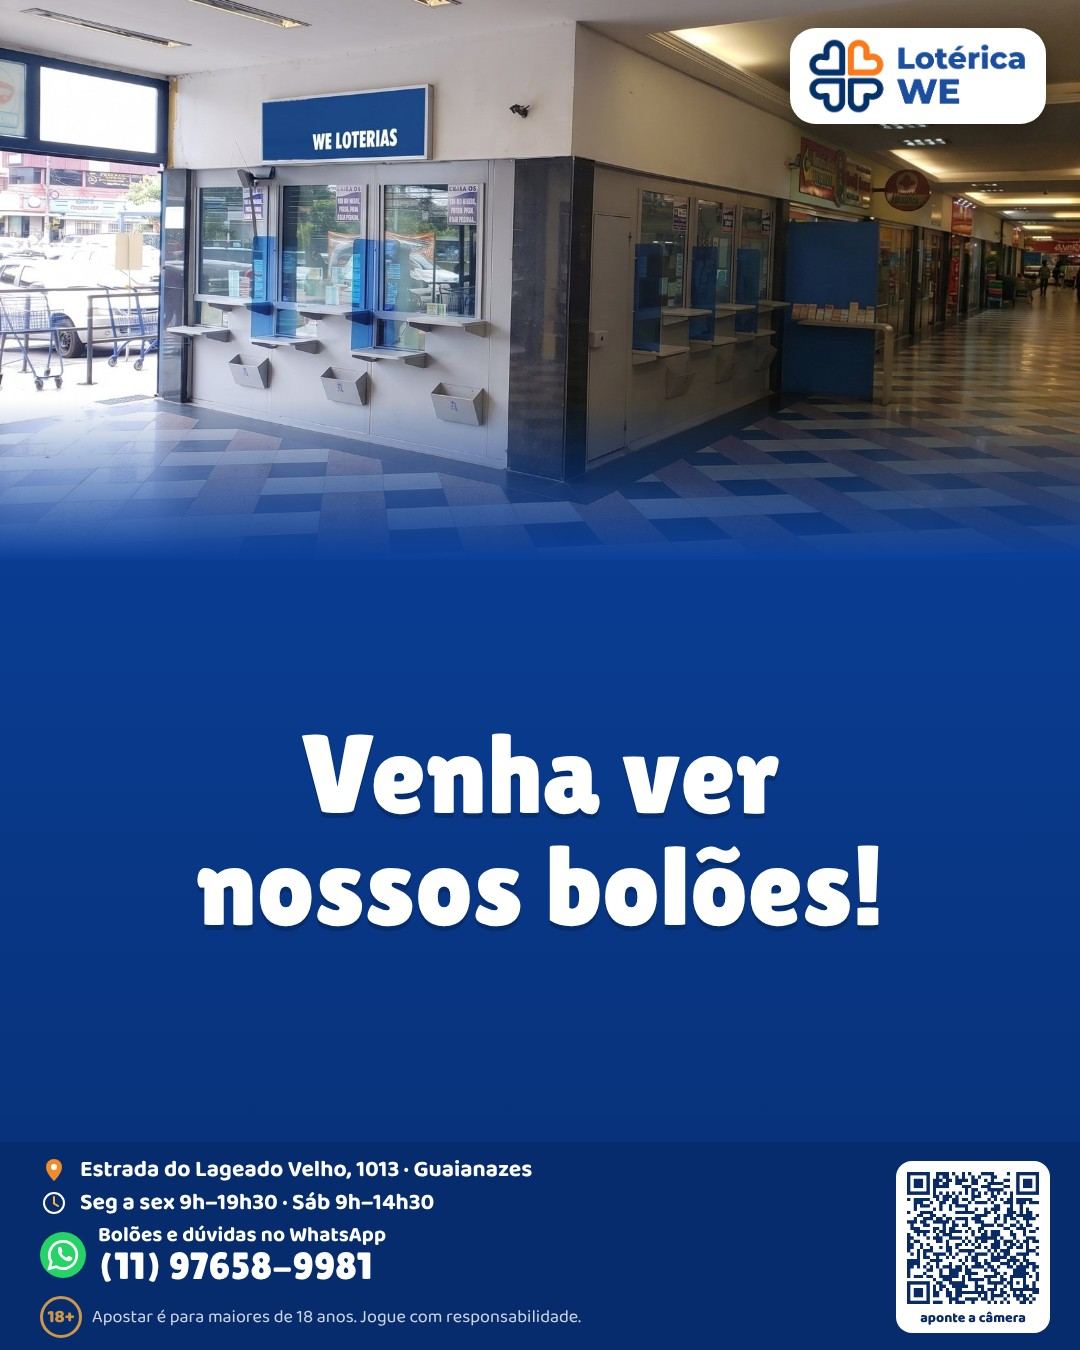
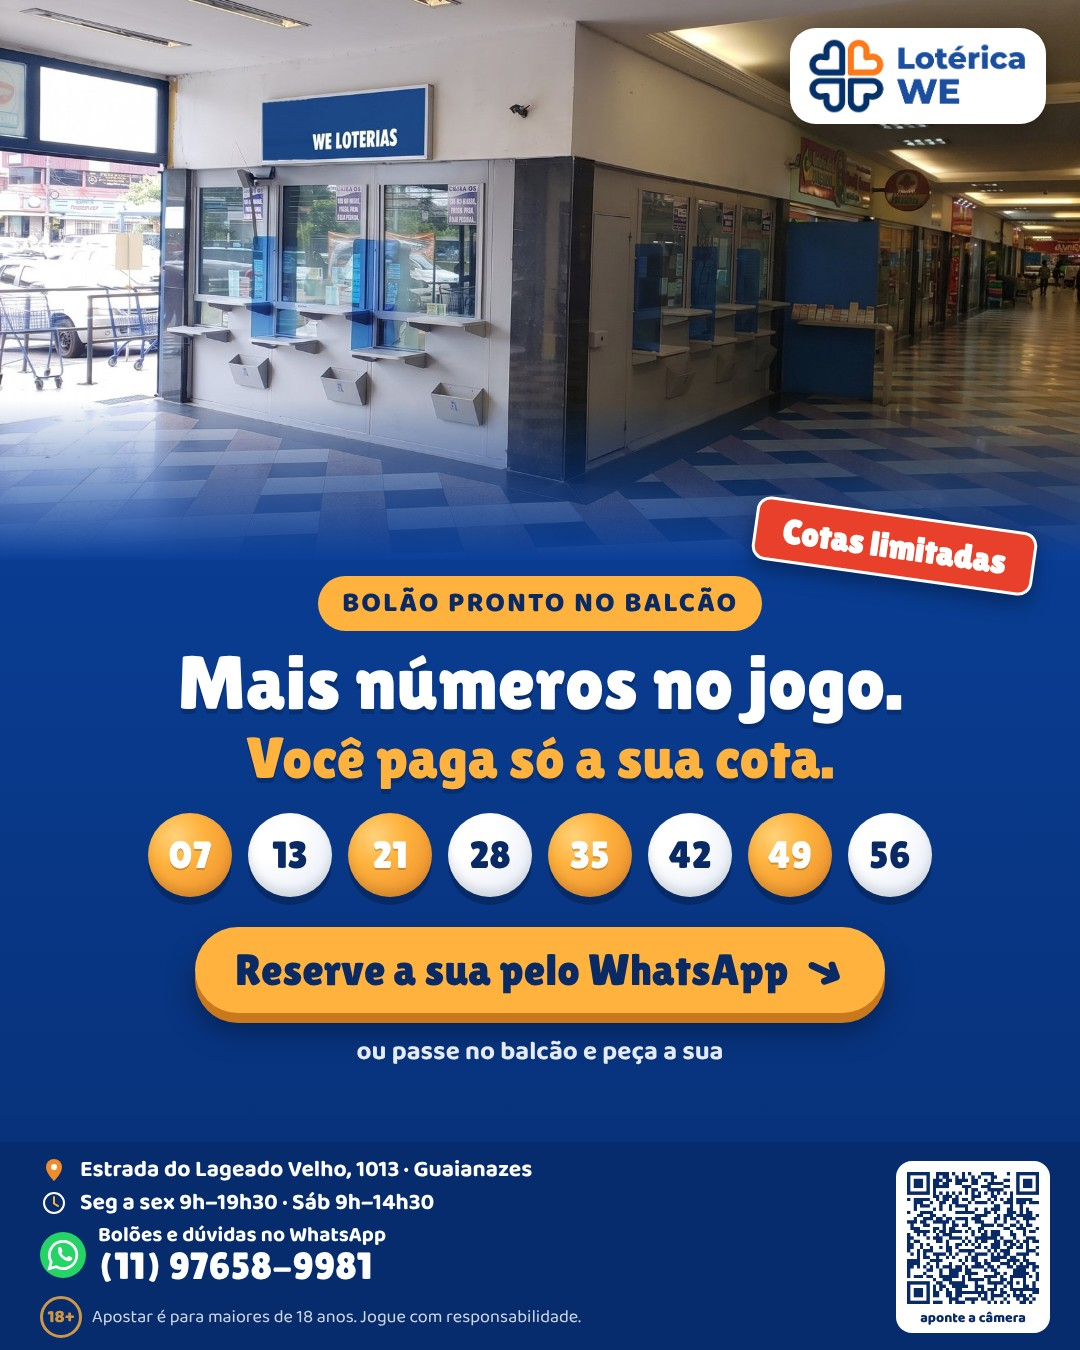
Peça de bolões: chamada, selo de cotas limitadas e botão de WhatsApp
Claude-Session: https://claude.ai/code/session_01Bxe7GpT3JXbyMSz1b7a84R

Changed region(s): [[0.1222, 0.3422, 0.9778, 0.8089]]

diff --git a/pecas-card/bolao_praca-xi.html b/pecas-card/bolao_praca-xi.html
@@ -32,9 +32,28 @@ body{padding:0;align-items:stretch;width:1080px;height:1350px}
 .slot{flex:1;margin:-30px 30px 20px;position:relative;z-index:1;border:4px dashed rgba(255,255,255,.7);border-radius:24px;display:flex;flex-direction:column;align-items:center;justify-content:center;gap:12px;background:rgba(10,42,102,.85)}
 .slot b{font-family:L;font-size:50px}.slot span{font-size:25px;font-weight:700;opacity:.9;text-align:center;padding:0 40px}
 .cta{font-family:L;color:#FFB23E;font-size:46px;margin-top:12px}
+
+.mk{gap:0}
+.mk .tag{position:absolute;top:-6px;right:44px;transform:rotate(8deg);background:#E8402A;color:#fff;font-family:L;font-size:34px;padding:10px 26px;border-radius:14px;box-shadow:0 8px 20px rgba(0,0,0,.35);border:3px solid #fff;z-index:3}
+.mk .kick{font-size:28px}
+.mk .h{font-size:76px;line-height:1.0;margin-top:14px}
+.mk .h span{color:#FFB23E;font-size:58px;display:block;margin-top:8px}
+.bolas{display:flex;gap:16px;margin-top:26px}
+.bolas i{font-style:normal;width:84px;height:84px;border-radius:50%;background:radial-gradient(circle at 32% 28%,#fff 0,#fff 30%,#dfe6f5 100%);color:#0A2A66;font-family:L;font-size:38px;display:flex;align-items:center;justify-content:center;box-shadow:0 8px 0 rgba(0,0,0,.22),inset 0 -6px 10px rgba(0,0,0,.12)}
+.bolas i.o{background:radial-gradient(circle at 32% 28%,#FFD27A 0,#FFB23E 35%,#E8892A 100%);color:#fff;text-shadow:0 2px 0 rgba(0,0,0,.2)}
+.btn{margin-top:30px;background:#FFB23E;color:#0A2A66;font-family:L;font-size:44px;padding:16px 40px;border-radius:60px;box-shadow:0 10px 0 #C9781E,0 18px 30px rgba(0,0,0,.35);display:flex;align-items:center;gap:18px}
+.btn b{font-size:46px;transform:rotate(25deg);display:inline-block}
+.ou{margin-top:18px;font-weight:700;font-size:26px;opacity:.9}
 </style></head><body>
 <div class="ph" style="--ph:560px;background-image:url(__A__/foto_praca-xi.jpg);background-position:70% 52%;background-size:118%"><img class="lj" style="left:34px" src="__A__/logoloja_praca-xi.png"></div>
-<div class="mid"><div class="h" style="font-size:112px;line-height:1.0">Venha ver<br>nossos bolões!</div></div>
+<div class="mid mk">
+<div class="tag">Cotas limitadas</div>
+<div class="kick">BOLÃO PRONTO NO BALCÃO</div>
+<div class="h">Mais números no jogo.<br><span>Você paga só a sua cota.</span></div>
+<div class="bolas"><i class="o">07</i><i class="">13</i><i class="o">21</i><i class="">28</i><i class="o">35</i><i class="">42</i><i class="o">49</i><i class="">56</i></div>
+<div class="btn">Reserve a sua pelo WhatsApp<b>➜</b></div>
+<div class="ou">ou passe no balcão e peça a sua</div>
+</div>
 <div class="bot"><div class="bl2"><div class="l"><svg viewBox="0 0 56 56" width="28" height="28"><path d="M28 50s16-15 16-28a16 16 0 10-32 0c0 13 16 28 16 28z" fill="#F28C28"/><circle cx="28" cy="22" r="6" fill="#fff"/></svg>Praça Rev. Mattathias Gomes dos Santos, 8 · Praça 11</div><div class="l"><svg viewBox="0 0 56 56" width="28" height="28"><circle cx="28" cy="28" r="20" fill="none" stroke="#fff" stroke-width="4"/><path d="M28 16v13l8 5" fill="none" stroke="#FFB23E" stroke-width="4" stroke-linecap="round"/></svg>Seg a sex 9h–17h45 · Sáb 8h30–14h</div>
 <div class="wa"><svg viewBox="0 0 32 32" width="46" height="46"><circle cx="16" cy="16" r="16" fill="#25D366"/><path d="M16 6.5a9.5 9.5 0 00-8.2 14.3L6.5 25.5l4.8-1.3A9.5 9.5 0 1016 6.5z" fill="none" stroke="#fff" stroke-width="1.9"/><path d="M12.6 11.2c.3-.7.7-.7 1-.7h.6c.2 0 .5.1.6.5l.8 2c.1.2 0 .5-.1.7l-.5.7c-.1.2-.1.4 0 .6.4.7 1 1.4 1.8 1.9.6.4 1.1.7 1.5.8.2.1.4 0 .6-.1l.7-.8c.2-.2.4-.2.6-.1l1.9.9c.3.1.4.3.4.5 0 .7-.4 1.5-1.2 1.9-.8.4-1.9.4-3.8-.4-2.2-1-3.8-3.2-4.3-4.1-.5-.9-.9-2.2-.4-3.4z" fill="#fff"/></svg><span>Bolões e dúvidas no WhatsApp<b>(11) 96048-0263</b></span></div>
 <div class="f"><span class="b18">18+</span>Apostar é para maiores de 18 anos. Jogue com responsabilidade.</div></div><div class="qr"><img src="__A__/qr_praca-xi.png"><small>aponte a câmera</small></div></div></body></html>

diff --git a/pecas-card/bolao_tomazini.html b/pecas-card/bolao_tomazini.html
@@ -32,9 +32,28 @@ body{padding:0;align-items:stretch;width:1080px;height:1350px}
 .slot{flex:1;margin:-30px 30px 20px;position:relative;z-index:1;border:4px dashed rgba(255,255,255,.7);border-radius:24px;display:flex;flex-direction:column;align-items:center;justify-content:center;gap:12px;background:rgba(10,42,102,.85)}
 .slot b{font-family:L;font-size:50px}.slot span{font-size:25px;font-weight:700;opacity:.9;text-align:center;padding:0 40px}
 .cta{font-family:L;color:#FFB23E;font-size:46px;margin-top:12px}
+
+.mk{gap:0}
+.mk .tag{position:absolute;top:-6px;right:44px;transform:rotate(8deg);background:#E8402A;color:#fff;font-family:L;font-size:34px;padding:10px 26px;border-radius:14px;box-shadow:0 8px 20px rgba(0,0,0,.35);border:3px solid #fff;z-index:3}
+.mk .kick{font-size:28px}
+.mk .h{font-size:76px;line-height:1.0;margin-top:14px}
+.mk .h span{color:#FFB23E;font-size:58px;display:block;margin-top:8px}
+.bolas{display:flex;gap:16px;margin-top:26px}
+.bolas i{font-style:normal;width:84px;height:84px;border-radius:50%;background:radial-gradient(circle at 32% 28%,#fff 0,#fff 30%,#dfe6f5 100%);color:#0A2A66;font-family:L;font-size:38px;display:flex;align-items:center;justify-content:center;box-shadow:0 8px 0 rgba(0,0,0,.22),inset 0 -6px 10px rgba(0,0,0,.12)}
+.bolas i.o{background:radial-gradient(circle at 32% 28%,#FFD27A 0,#FFB23E 35%,#E8892A 100%);color:#fff;text-shadow:0 2px 0 rgba(0,0,0,.2)}
+.btn{margin-top:30px;background:#FFB23E;color:#0A2A66;font-family:L;font-size:44px;padding:16px 40px;border-radius:60px;box-shadow:0 10px 0 #C9781E,0 18px 30px rgba(0,0,0,.35);display:flex;align-items:center;gap:18px}
+.btn b{font-size:46px;transform:rotate(25deg);display:inline-block}
+.ou{margin-top:18px;font-weight:700;font-size:26px;opacity:.9}
 </style></head><body>
 <div class="ph" style="--ph:560px;background-image:url(__A__/foto_tomazini.jpg);background-position:60% 76%;background-size:112%"><img class="lj" style="right:34px" src="__A__/logoloja_tomazini.png"></div>
-<div class="mid"><div class="h" style="font-size:112px;line-height:1.0">Venha ver<br>nossos bolões!</div></div>
+<div class="mid mk">
+<div class="tag">Cotas limitadas</div>
+<div class="kick">BOLÃO PRONTO NO BALCÃO</div>
+<div class="h">Mais números no jogo.<br><span>Você paga só a sua cota.</span></div>
+<div class="bolas"><i class="o">07</i><i class="">13</i><i class="o">21</i><i class="">28</i><i class="o">35</i><i class="">42</i><i class="o">49</i><i class="">56</i></div>
+<div class="btn">Reserve a sua pelo WhatsApp<b>➜</b></div>
+<div class="ou">ou passe no balcão e peça a sua</div>
+</div>
 <div class="bot"><div class="bl2"><div class="l"><svg viewBox="0 0 56 56" width="28" height="28"><path d="M28 50s16-15 16-28a16 16 0 10-32 0c0 13 16 28 16 28z" fill="#F28C28"/><circle cx="28" cy="22" r="6" fill="#fff"/></svg>Av. Boturussu, 2074 · Centro de Ermelino Matarazzo</div><div class="l"><svg viewBox="0 0 56 56" width="28" height="28"><circle cx="28" cy="28" r="20" fill="none" stroke="#fff" stroke-width="4"/><path d="M28 16v13l8 5" fill="none" stroke="#FFB23E" stroke-width="4" stroke-linecap="round"/></svg>Seg a sex 9h–17h30 · Sáb 9h–14h30</div>
 <div class="wa"><svg viewBox="0 0 32 32" width="46" height="46"><circle cx="16" cy="16" r="16" fill="#25D366"/><path d="M16 6.5a9.5 9.5 0 00-8.2 14.3L6.5 25.5l4.8-1.3A9.5 9.5 0 1016 6.5z" fill="none" stroke="#fff" stroke-width="1.9"/><path d="M12.6 11.2c.3-.7.7-.7 1-.7h.6c.2 0 .5.1.6.5l.8 2c.1.2 0 .5-.1.7l-.5.7c-.1.2-.1.4 0 .6.4.7 1 1.4 1.8 1.9.6.4 1.1.7 1.5.8.2.1.4 0 .6-.1l.7-.8c.2-.2.4-.2.6-.1l1.9.9c.3.1.4.3.4.5 0 .7-.4 1.5-1.2 1.9-.8.4-1.9.4-3.8-.4-2.2-1-3.8-3.2-4.3-4.1-.5-.9-.9-2.2-.4-3.4z" fill="#fff"/></svg><span>Bolões e dúvidas no WhatsApp<b>(11) 97896-2327</b></span></div>
 <div class="f"><span class="b18">18+</span>Apostar é para maiores de 18 anos. Jogue com responsabilidade.</div></div><div class="qr"><img src="__A__/qr_tomazini.png"><small>aponte a câmera</small></div></div></body></html>

diff --git a/pecas-card/bolao_we.html b/pecas-card/bolao_we.html
@@ -32,9 +32,28 @@ body{padding:0;align-items:stretch;width:1080px;height:1350px}
 .slot{flex:1;margin:-30px 30px 20px;position:relative;z-index:1;border:4px dashed rgba(255,255,255,.7);border-radius:24px;display:flex;flex-direction:column;align-items:center;justify-content:center;gap:12px;background:rgba(10,42,102,.85)}
 .slot b{font-family:L;font-size:50px}.slot span{font-size:25px;font-weight:700;opacity:.9;text-align:center;padding:0 40px}
 .cta{font-family:L;color:#FFB23E;font-size:46px;margin-top:12px}
+
+.mk{gap:0}
+.mk .tag{position:absolute;top:-6px;right:44px;transform:rotate(8deg);background:#E8402A;color:#fff;font-family:L;font-size:34px;padding:10px 26px;border-radius:14px;box-shadow:0 8px 20px rgba(0,0,0,.35);border:3px solid #fff;z-index:3}
+.mk .kick{font-size:28px}
+.mk .h{font-size:76px;line-height:1.0;margin-top:14px}
+.mk .h span{color:#FFB23E;font-size:58px;display:block;margin-top:8px}
+.bolas{display:flex;gap:16px;margin-top:26px}
+.bolas i{font-style:normal;width:84px;height:84px;border-radius:50%;background:radial-gradient(circle at 32% 28%,#fff 0,#fff 30%,#dfe6f5 100%);color:#0A2A66;font-family:L;font-size:38px;display:flex;align-items:center;justify-content:center;box-shadow:0 8px 0 rgba(0,0,0,.22),inset 0 -6px 10px rgba(0,0,0,.12)}
+.bolas i.o{background:radial-gradient(circle at 32% 28%,#FFD27A 0,#FFB23E 35%,#E8892A 100%);color:#fff;text-shadow:0 2px 0 rgba(0,0,0,.2)}
+.btn{margin-top:30px;background:#FFB23E;color:#0A2A66;font-family:L;font-size:44px;padding:16px 40px;border-radius:60px;box-shadow:0 10px 0 #C9781E,0 18px 30px rgba(0,0,0,.35);display:flex;align-items:center;gap:18px}
+.btn b{font-size:46px;transform:rotate(25deg);display:inline-block}
+.ou{margin-top:18px;font-weight:700;font-size:26px;opacity:.9}
 </style></head><body>
 <div class="ph" style="--ph:560px;background-image:url(__A__/foto_we.jpg);background-position:35% 45%;background-size:cover"><img class="lj" style="right:34px" src="__A__/logoloja_we.png"></div>
-<div class="mid"><div class="h" style="font-size:112px;line-height:1.0">Venha ver<br>nossos bolões!</div></div>
+<div class="mid mk">
+<div class="tag">Cotas limitadas</div>
+<div class="kick">BOLÃO PRONTO NO BALCÃO</div>
+<div class="h">Mais números no jogo.<br><span>Você paga só a sua cota.</span></div>
+<div class="bolas"><i class="o">07</i><i class="">13</i><i class="o">21</i><i class="">28</i><i class="o">35</i><i class="">42</i><i class="o">49</i><i class="">56</i></div>
+<div class="btn">Reserve a sua pelo WhatsApp<b>➜</b></div>
+<div class="ou">ou passe no balcão e peça a sua</div>
+</div>
 <div class="bot"><div class="bl2"><div class="l"><svg viewBox="0 0 56 56" width="28" height="28"><path d="M28 50s16-15 16-28a16 16 0 10-32 0c0 13 16 28 16 28z" fill="#F28C28"/><circle cx="28" cy="22" r="6" fill="#fff"/></svg>Estrada do Lageado Velho, 1013 · Guaianazes</div><div class="l"><svg viewBox="0 0 56 56" width="28" height="28"><circle cx="28" cy="28" r="20" fill="none" stroke="#fff" stroke-width="4"/><path d="M28 16v13l8 5" fill="none" stroke="#FFB23E" stroke-width="4" stroke-linecap="round"/></svg>Seg a sex 9h–19h30 · Sáb 9h–14h30</div>
 <div class="wa"><svg viewBox="0 0 32 32" width="46" height="46"><circle cx="16" cy="16" r="16" fill="#25D366"/><path d="M16 6.5a9.5 9.5 0 00-8.2 14.3L6.5 25.5l4.8-1.3A9.5 9.5 0 1016 6.5z" fill="none" stroke="#fff" stroke-width="1.9"/><path d="M12.6 11.2c.3-.7.7-.7 1-.7h.6c.2 0 .5.1.6.5l.8 2c.1.2 0 .5-.1.7l-.5.7c-.1.2-.1.4 0 .6.4.7 1 1.4 1.8 1.9.6.4 1.1.7 1.5.8.2.1.4 0 .6-.1l.7-.8c.2-.2.4-.2.6-.1l1.9.9c.3.1.4.3.4.5 0 .7-.4 1.5-1.2 1.9-.8.4-1.9.4-3.8-.4-2.2-1-3.8-3.2-4.3-4.1-.5-.9-.9-2.2-.4-3.4z" fill="#fff"/></svg><span>Bolões e dúvidas no WhatsApp<b>(11) 97658-9981</b></span></div>
 <div class="f"><span class="b18">18+</span>Apostar é para maiores de 18 anos. Jogue com responsabilidade.</div></div><div class="qr"><img src="__A__/qr_we.png"><small>aponte a câmera</small></div></div></body></html>
